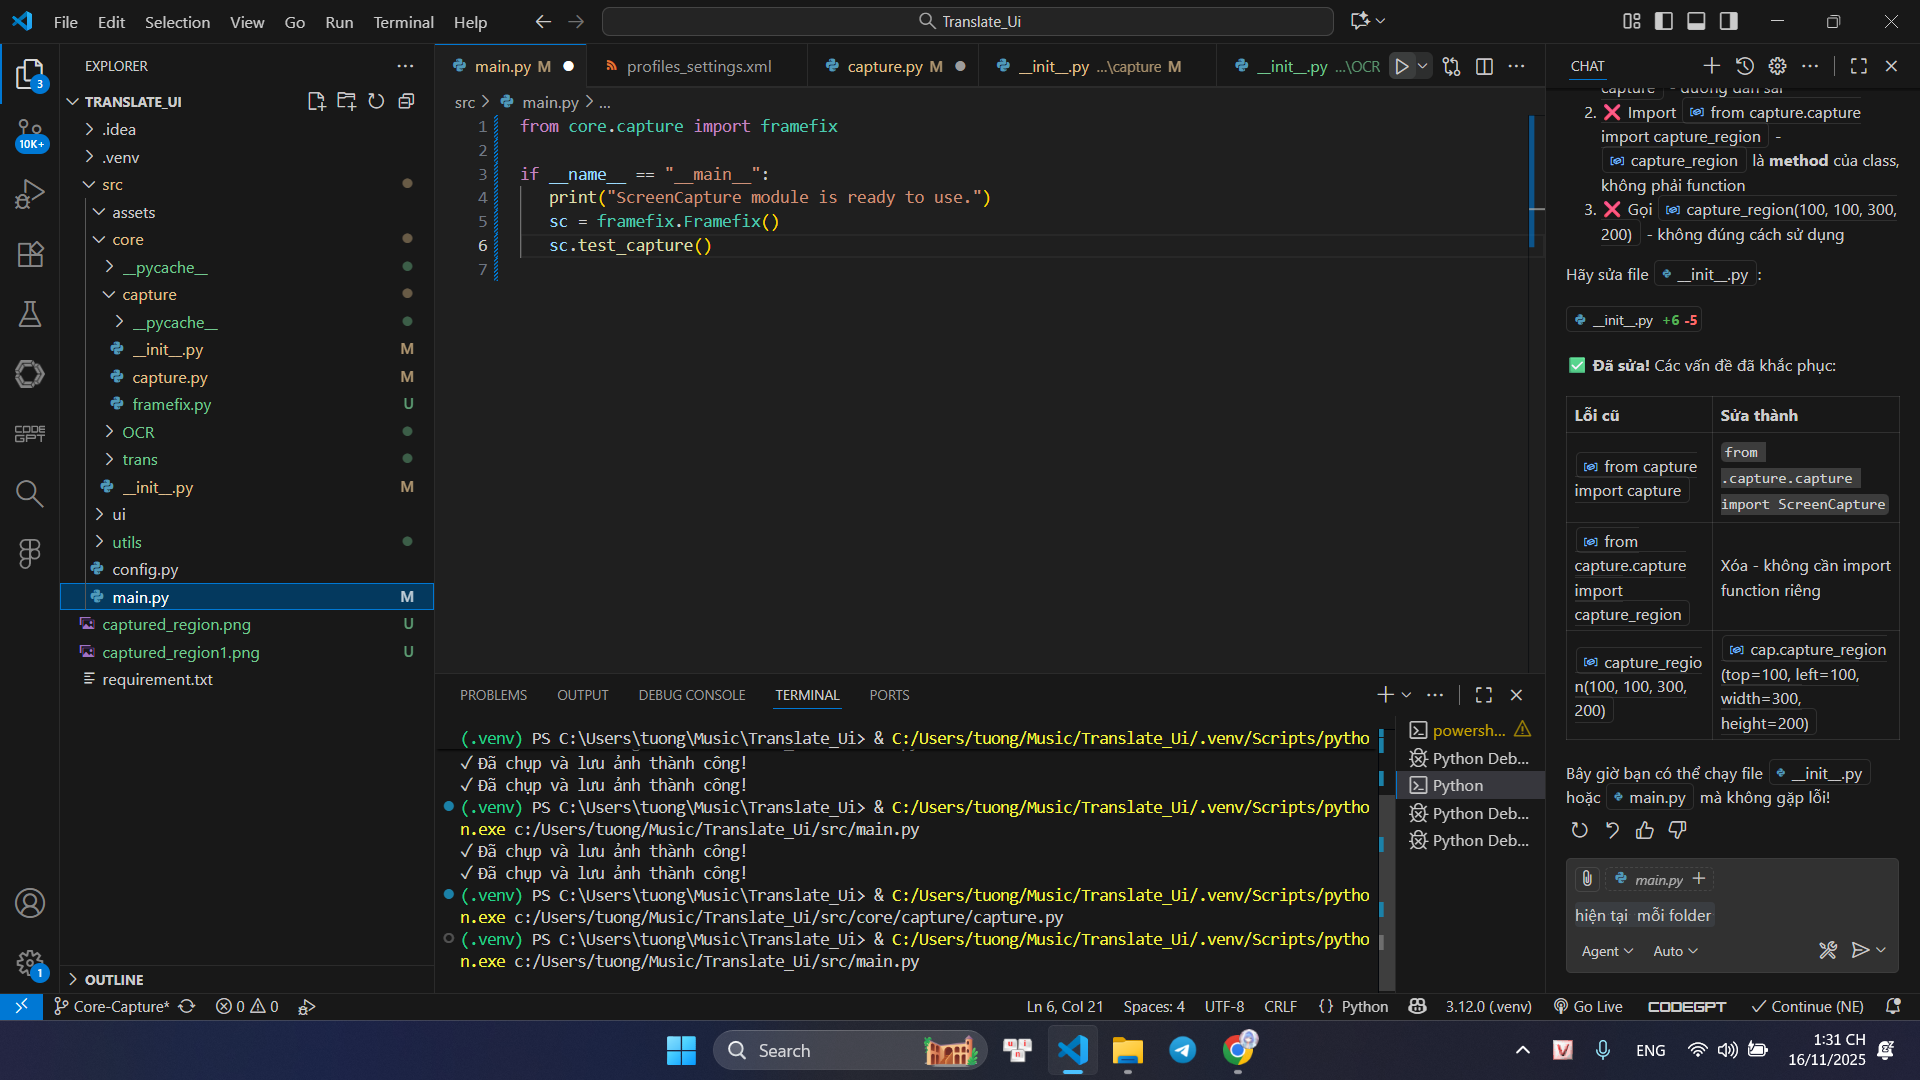
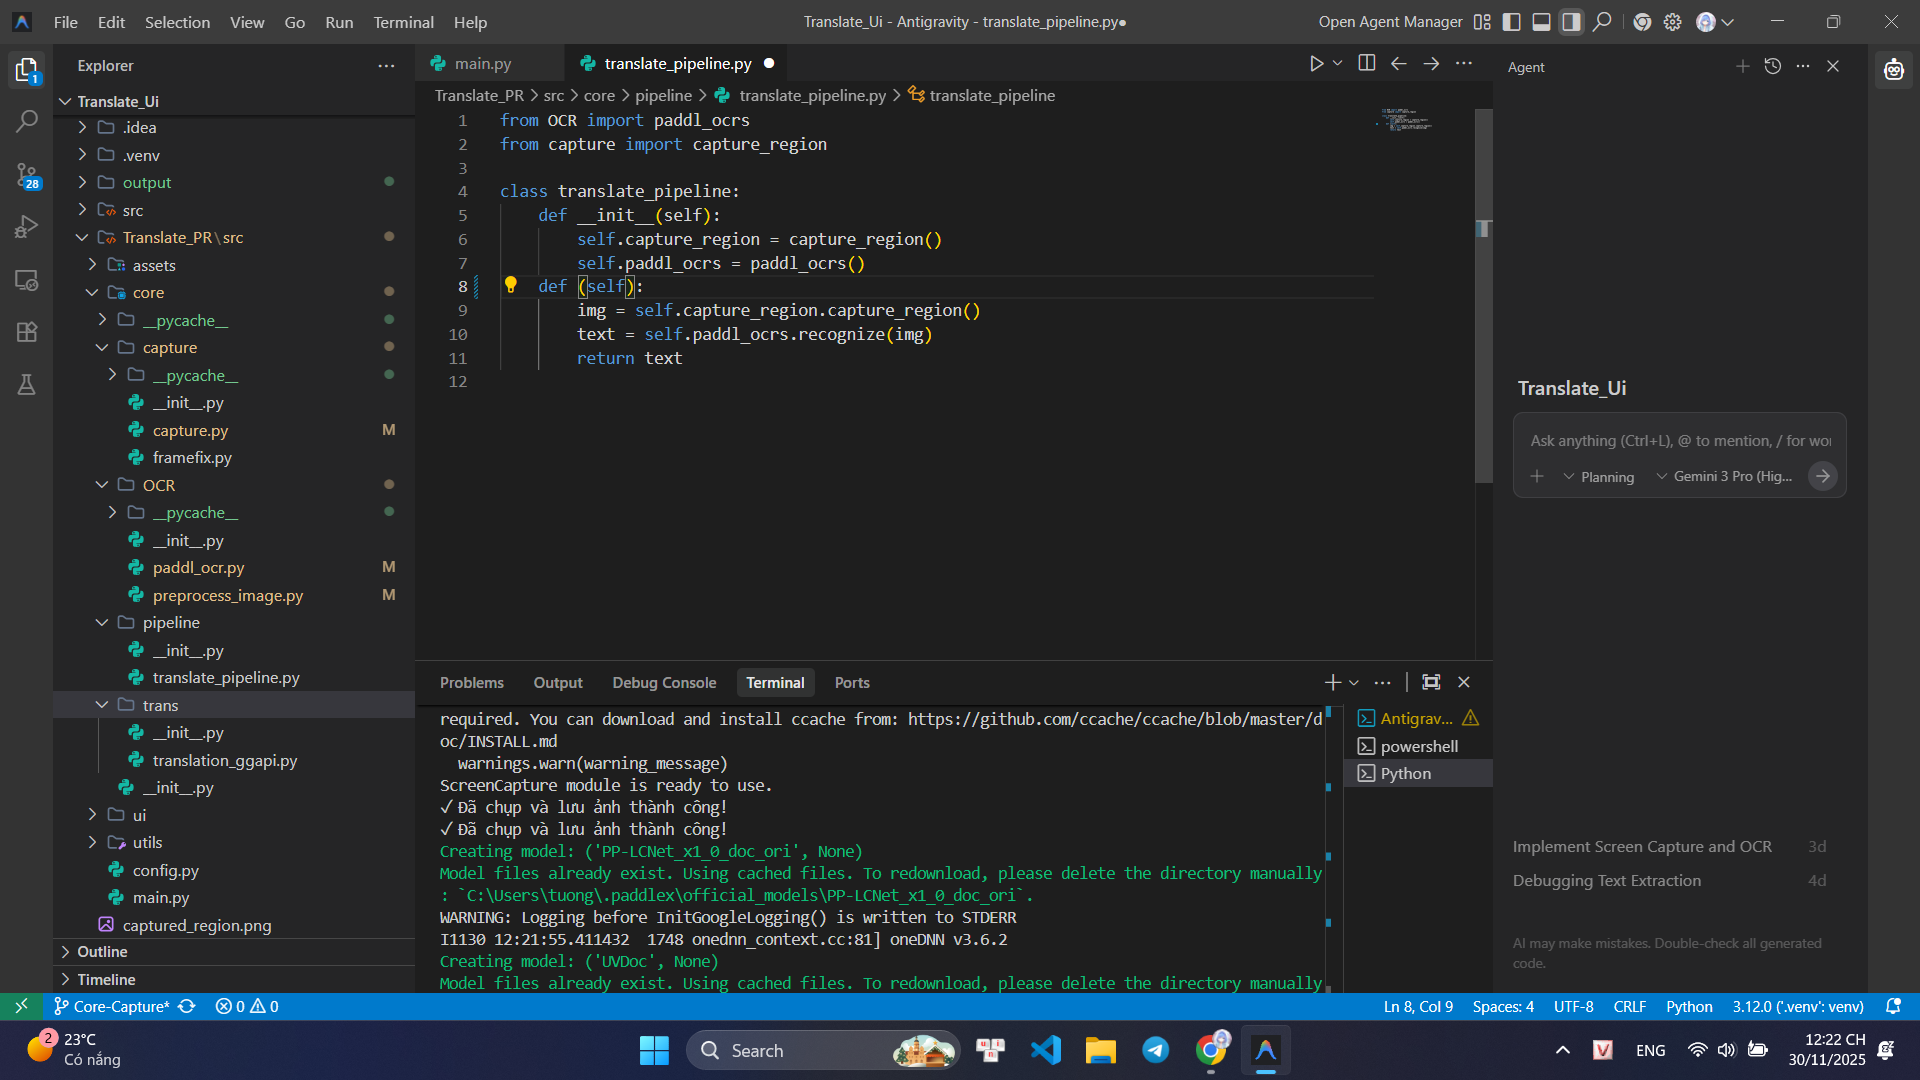
chảng

diff --git a/Translate_PR/src/core/pipeline/translate_pipeline.py b/Translate_PR/src/core/pipeline/translate_pipeline.py
@@ -1,12 +1,24 @@
 from OCR import paddl_ocrs
 from capture import capture_region
-
+from trans import translation_ggapi
 class translate_pipeline:
     def __init__(self):
         self.capture_region = capture_region()
         self.paddl_ocrs = paddl_ocrs()
-    def pipeline(self):
-        img = self.capture_region.capture_region()
+        self.translate = translation_ggapi()
+    def pipeling_regioncapture(self):
+        print("ScreenCapture module is ready to use.")
+        cap = ScreenCapture()
+        img = cap.capture_region(top=0, left=0, width=300, height=200) 
+        print("✓ Đã chụp và lưu ảnh thành công!")
+        cap.save_screenshot(img, "captured_region1.png")
+        print("✓ Đã chụp và lưu ảnh thành công!")  
+        IMG_PATH = "hih.png"  
+        text = paddl_ocrs(IMG_PATH, lang="en")   # gọi hàm nhận dạng
+        print(text.recognize())  
         text = self.paddl_ocrs.recognize(img)
         return text
     
+   
+
+   

diff --git a/Translate_PR/src/main.py b/Translate_PR/src/main.py
@@ -1,19 +1,6 @@
-from core.capture import ScreenCapture
-#from core.OCR import paddl_ocrs
-# src/main.py
-from core.OCR.paddl_ocr import paddl_ocrs
+from core.pipeline.translate_pipeline import translate_pipeline
 import paddle
 if __name__ == "__main__":
-   print("ScreenCapture module is ready to use.")
-   cap = ScreenCapture()
-   img = cap.capture_region(top=0, left=0, width=300, height=200) 
-   print("✓ Đã chụp và lưu ảnh thành công!")
-
-   img = cap.capture_screen(monitor=1)
-   cap.save_screenshot(img, "captured_region1.png")
-   print("✓ Đã chụp và lưu ảnh thành công!")  
-   IMG_PATH = "hih.png"  
-   text = paddl_ocrs(IMG_PATH, lang="en")   # gọi hàm nhận dạng
-   print(text.recognize())  
-   
+   translate_pipeline = translate_pipeline()
+   translate_pipeline.pipeling_regioncapture()
    

diff --git a/Translate_PR/src/core/OCR/paddl_ocr.py b/Translate_PR/src/core/OCR/paddl_ocr.py
@@ -13,10 +13,6 @@ class paddl_ocrs:
          )
         self.img_path = img_path
 
-    def _preprocess(self, img): 
-        img = cv2.cvtColor(img, cv2.COLOR_BGR2GRAY) 
-        img = cv2.adaptiveThreshold(img, 255, cv2.ADAPTIVE_THRESH_GAUSSIAN_C, cv2.THRESH_BINARY, 11, 2)
-        return img
 
     def recognize(self): 
         img = cv2.imread(self.img_path)

diff --git a/Translate_PR/src/core/OCR/preprocess_image.py b/Translate_PR/src/core/OCR/preprocess_image.py
@@ -1,0 +1,10 @@
+import cv2
+class preprocess_image:
+    def __init__(self):
+        pass
+    def _preprocess(self, img): 
+        img = cv2.cvtColor(img, cv2.COLOR_BGR2GRAY) 
+        img = cv2.adaptiveThreshold(img, 255, cv2.ADAPTIVE_THRESH_GAUSSIAN_C, cv2.THRESH_BINARY, 11, 2)
+        return img
+
+        

diff --git a/Translate_PR/src/core/__init__.py b/Translate_PR/src/core/__init__.py
@@ -1,3 +1,7 @@
 
 from .capture.capture import ScreenCapture
 from .OCR import paddl_ocrs
+from .OCR import preprocess_images
+from .trans import translation_ggapi
+from .pipeline import translate_pipeline
+__all__ = "ScreenCapture", "paddl_ocrs", "preprocess_images", "translation_ggapi", "translate_pipeline"

diff --git a/Translate_PR/src/core/OCR/__init__.py b/Translate_PR/src/core/OCR/__init__.py
@@ -1,1 +1,4 @@
-from .paddl_ocr import paddl_ocrs
+from .OCR import paddl_ocr
+from .OCR import preprocess_images
+
+__all__ = "paddl_ocr", "preprocess_images"

diff --git a/Translate_PR/src/core/capture/capture.py b/Translate_PR/src/core/capture/capture.py
@@ -32,4 +32,5 @@ class ScreenCapture:
     def save_screenshot(self, img: Image.Image, file_path: str) -> None:
  
         img.save(file_path)
+
    

diff --git a/Translate_PR/src/core/pipeline/__init__.py b/Translate_PR/src/core/pipeline/__init__.py
@@ -1,0 +1,2 @@
+from .pipeline import translate_pipeline
+__all__ = "translate_pipeline"

diff --git a/Translate_PR/src/core/trans/__init__.py b/Translate_PR/src/core/trans/__init__.py
@@ -1,0 +1,2 @@
+from .trans import translation_ggapi
+__all__ = "translation_ggapi"
